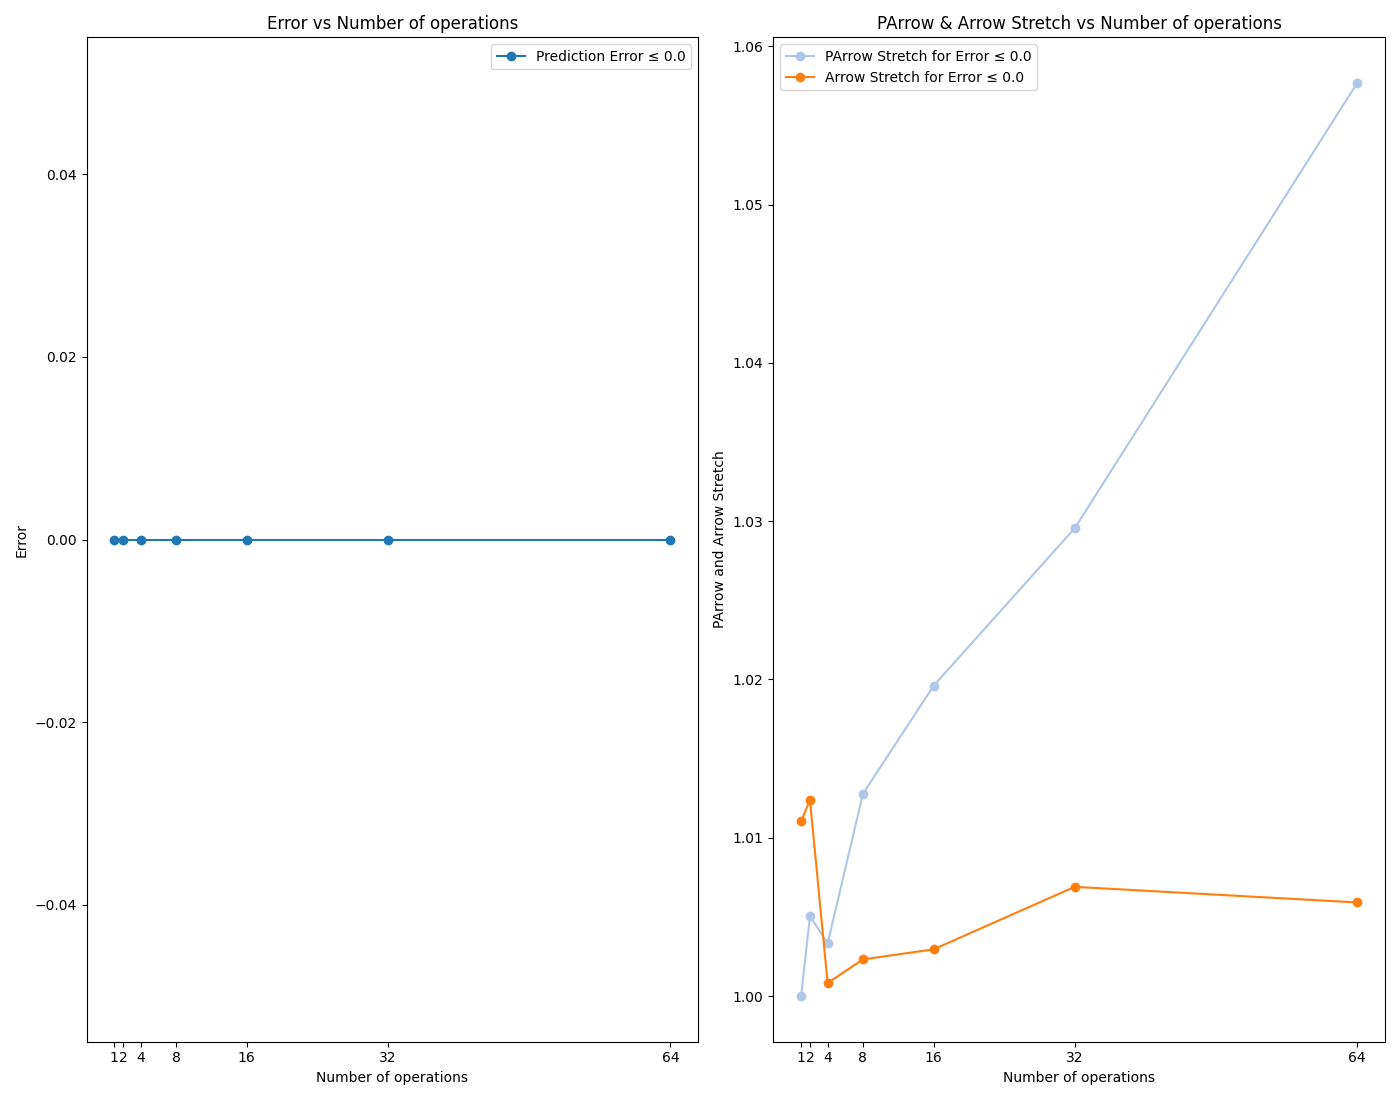
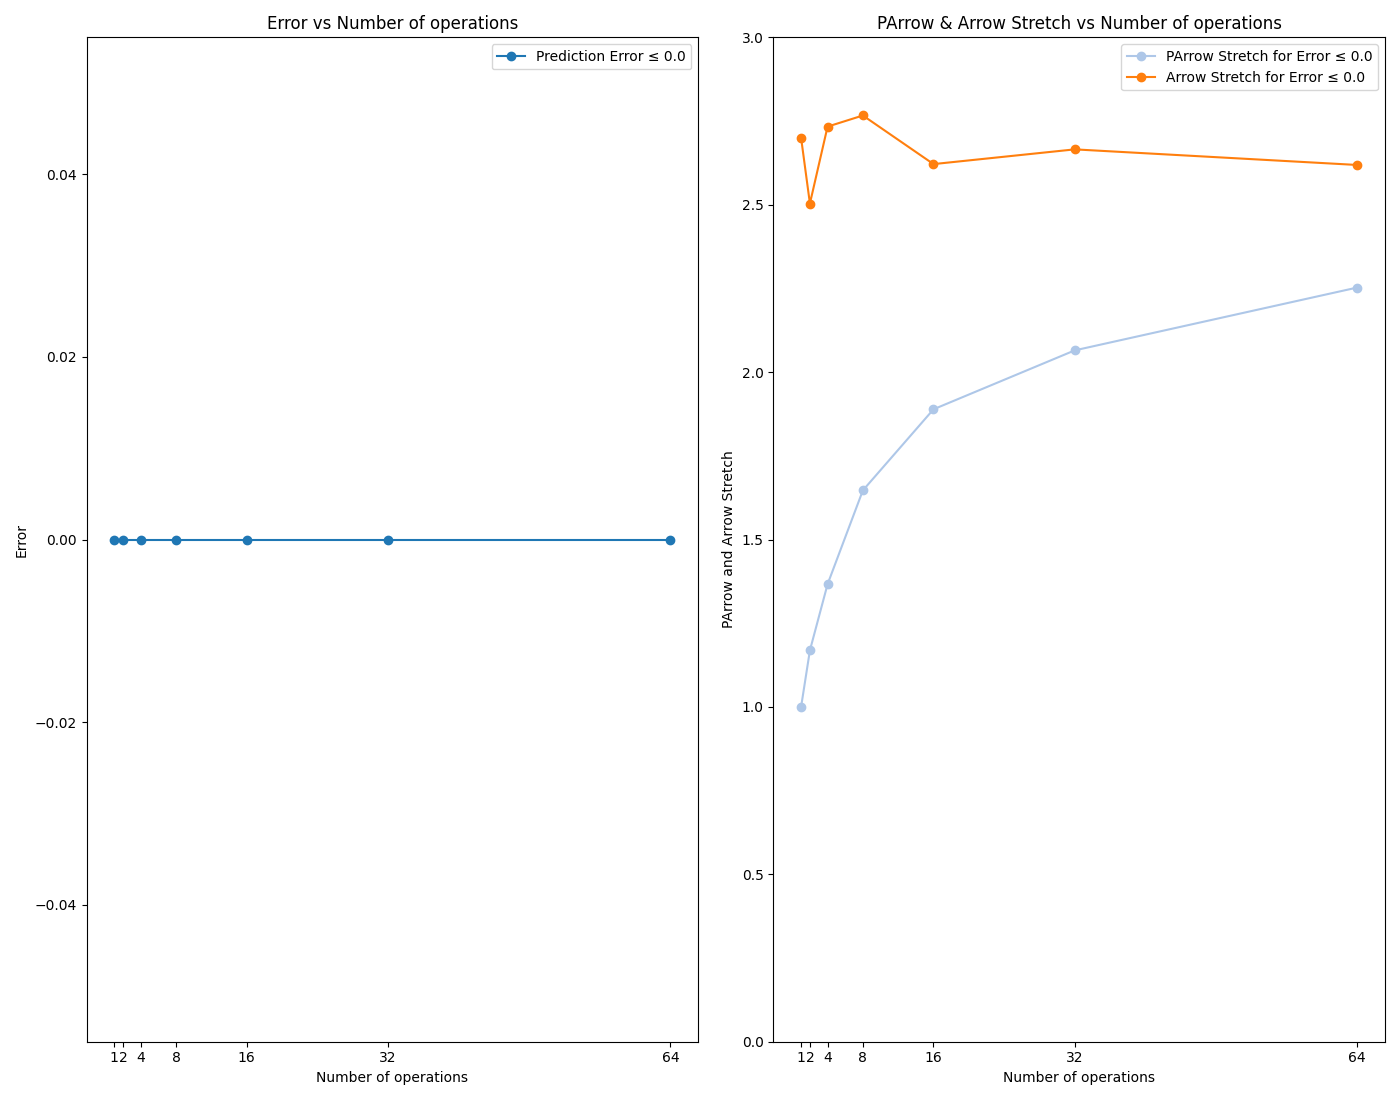
came up with the data after using denser graphs

diff --git a/refined_plot_graph_from_excel_data.py b/refined_plot_graph_from_excel_data.py
@@ -9,7 +9,7 @@ import os
 
 # Gather and sort all Excel files
 
-files = sorted(glob.glob('./results/steiner_corrected_data/random/128nodes_diameter104_cutoff5.0*.xlsx'))
+files = sorted(glob.glob('./results/steiner_corrected_data/random/128nodes_diameter7_cutoffinf*.xlsx'))
 
 # Extract node count and overlap from filename
 m = re.search(r'(\d+)nodes_', files[0])
@@ -126,11 +126,12 @@ ax3.set_xticks(unique_x)
 
 # Save or display
 plt.tight_layout()
+plt.ylim(0, 5)
 folder = "steiner_corrected_plots"
 folder2 = "random"
 # filename = f'{node_count}_nodes.png'
 filename = f'{node_count}_nodes_cutoff_{actual_cutoff}.png'
 path_to_save = os.path.join('results', folder, folder2, filename)
 
-# plt.savefig(path_to_save)
-plt.show()
+plt.savefig(path_to_save)
+# plt.show()

diff --git a/draw_graph.py b/draw_graph.py
@@ -8,8 +8,8 @@ import pandas as pd
 
 # Load the graph from a GraphML file
 # graphml_file = '\graphs_new\16random_diameter21test.edgelist'
-graphml_file = os.path.join("graphs_new", "16random_diameter21test.edgelist")
-G = nx.read_graphml(graphml_file)
+# graphml_file = os.path.join("graphs_new", "16random_diameter21test.edgelist")
+# G = nx.read_graphml(graphml_file)
 
 def see_graph(G):
     # Position nodes for better visualization
